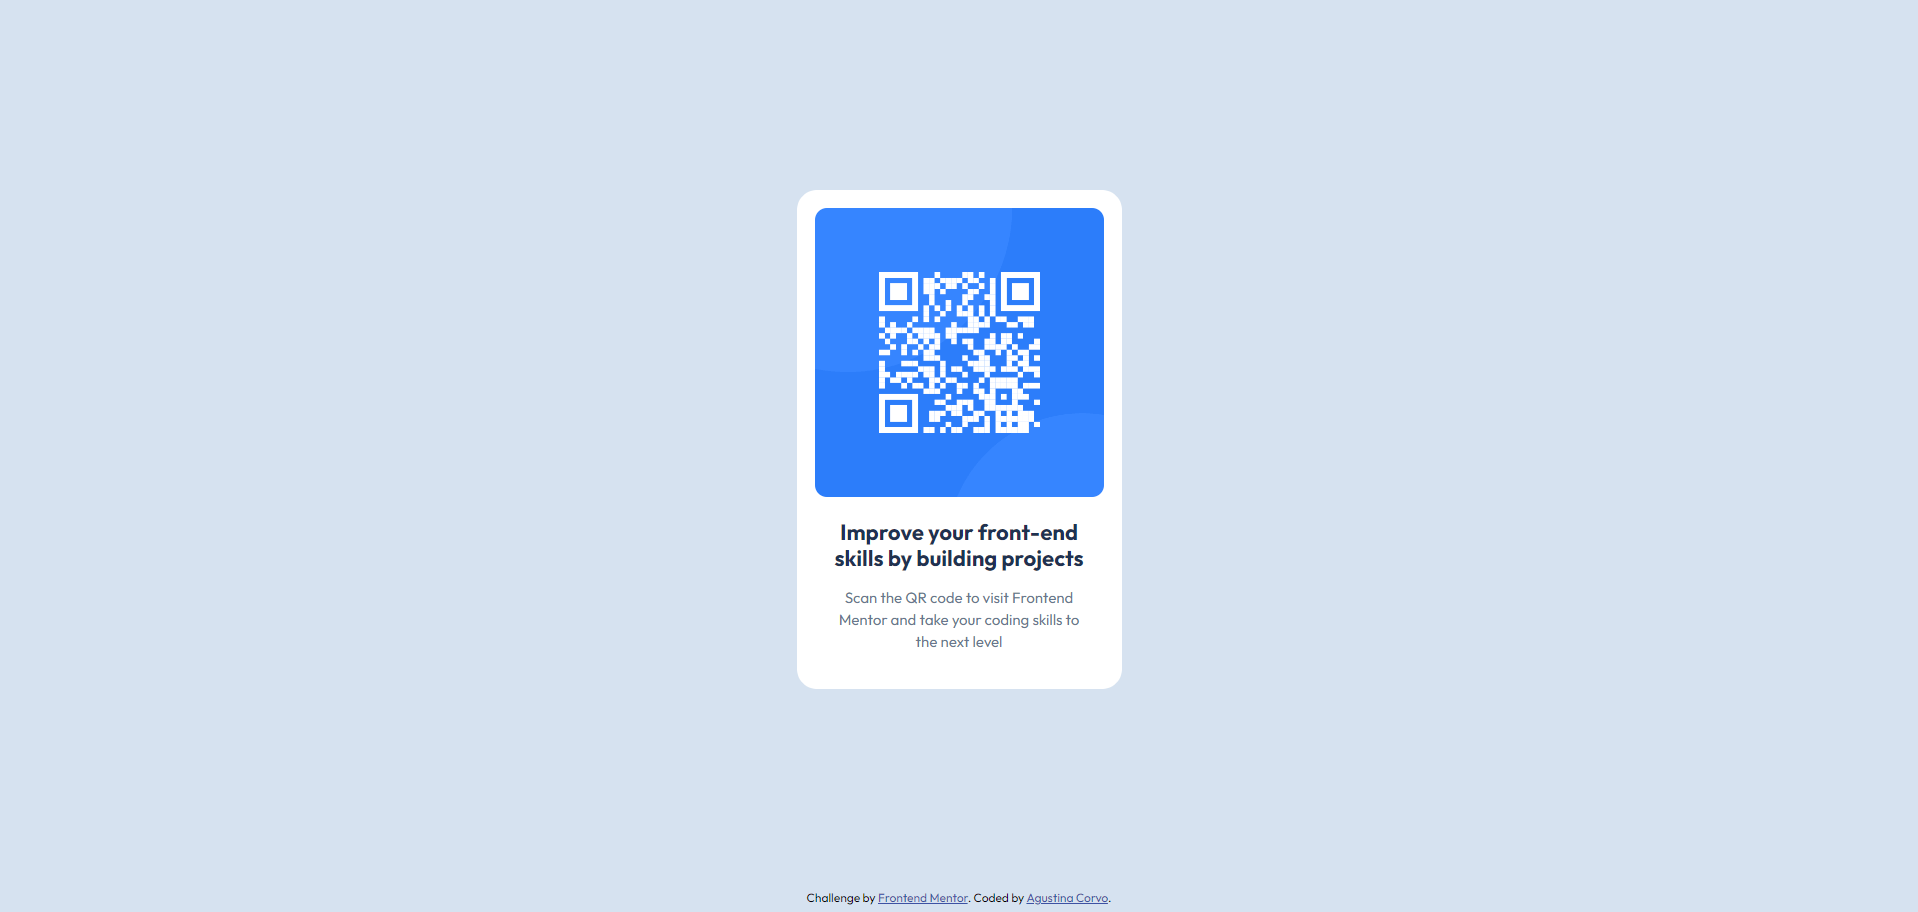
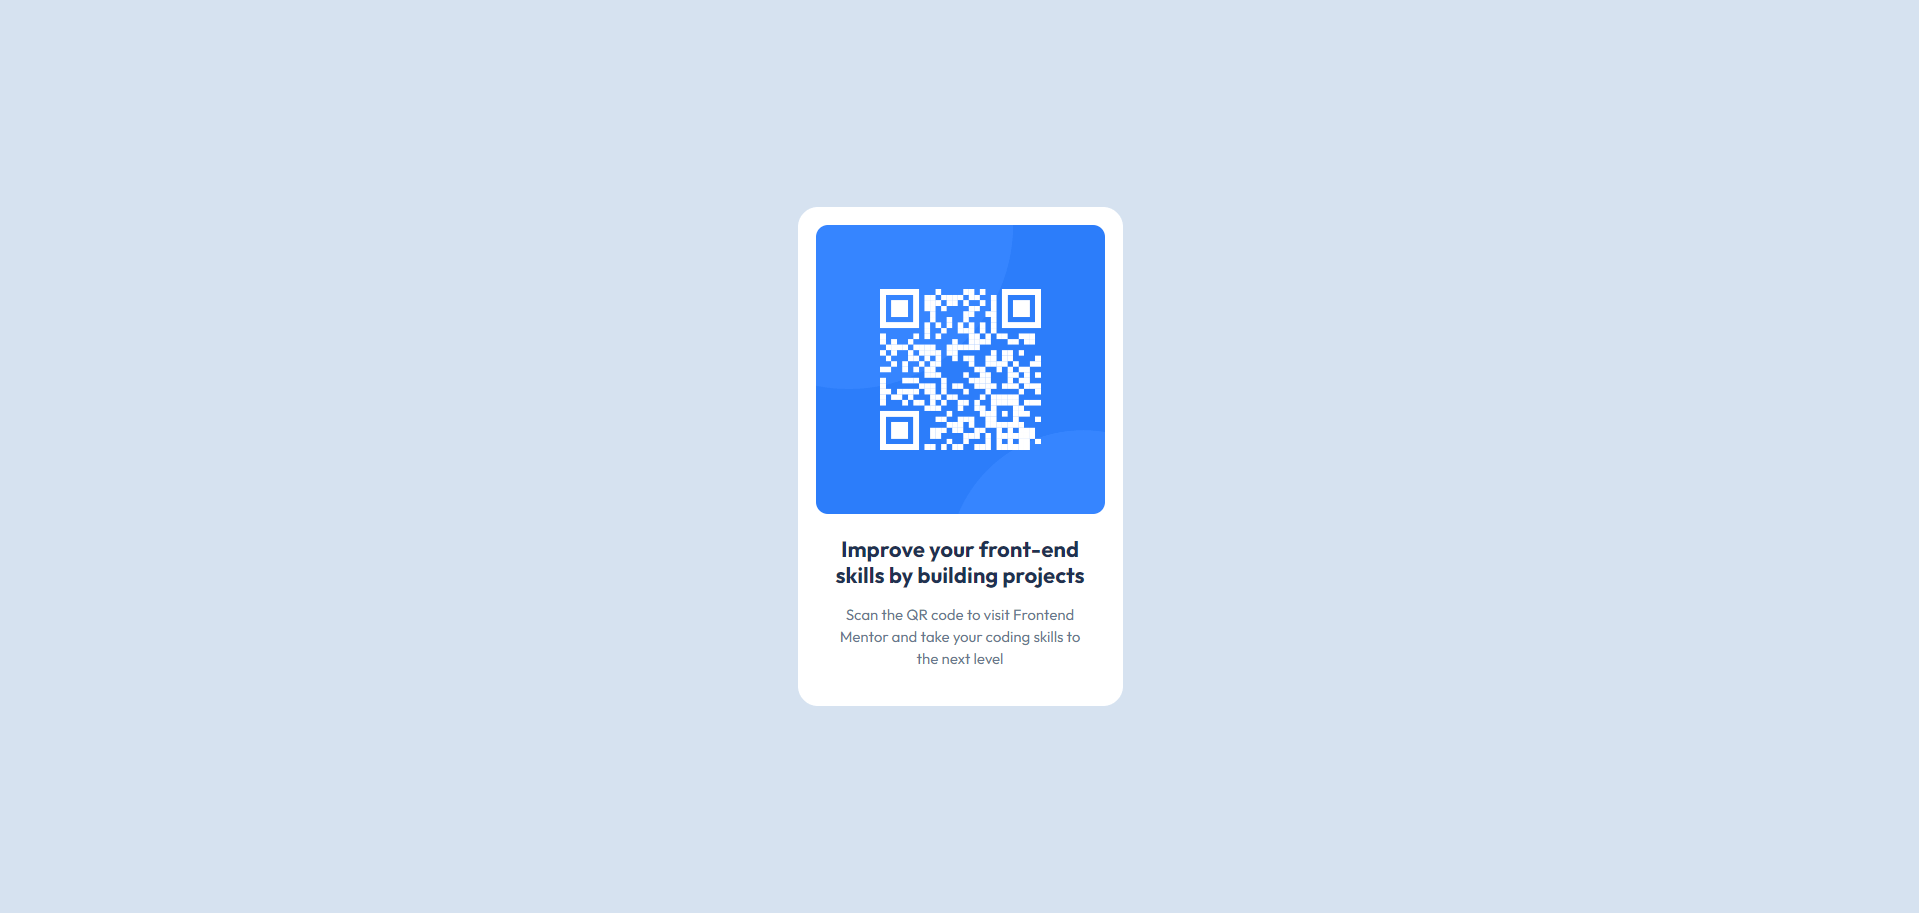
Delete footer

diff --git a/styles.css b/styles.css
@@ -9,13 +9,9 @@ body {
   height: 100vh;
   font-family: "Outfit", sans-serif;
   font-size: 15px;
-  display: flex;
-  flex-direction: column;
-  justify-content: center;
 }
 
 main {
-  flex-grow: 1;
   display: flex;
   flex-direction: column;
   justify-content: center;
@@ -58,15 +54,4 @@ article p {
 img {
   width: 100%;
   border-radius: 12px;
-}
-
-footer {
-  font-size: 12px;
-  text-align: center;
-  padding: 10px 0;
-  margin-top: auto;
-}
-
-footer a {
-  color: hsl(228, 45%, 44%);
 }

diff --git a/index.html b/index.html
@@ -34,12 +34,5 @@
         </article>
       </section>
     </main>
-
-    <footer>
-      Challenge by
-      <a href="https://www.frontendmentor.io?ref=challenge" target="_blank"
-        >Frontend Mentor</a
-      >. Coded by <a href="https://github.com/aguscorvo">Agustina Corvo</a>.
-    </footer>
   </body>
 </html>
